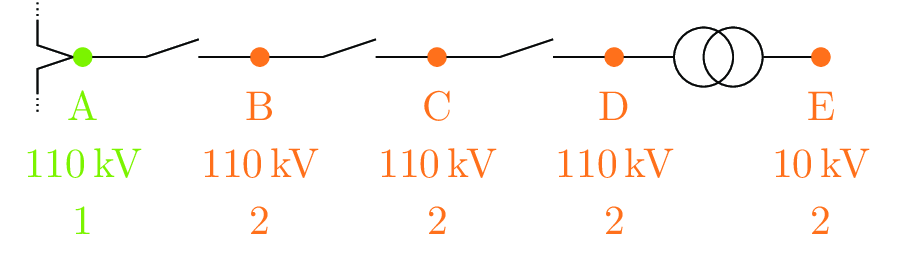
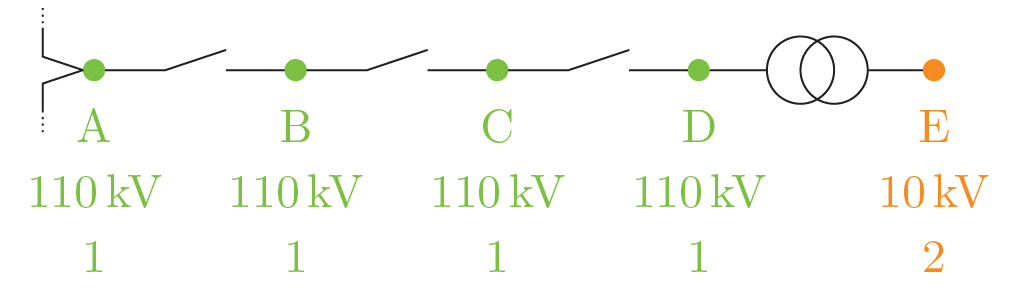
Including reviewer's comments.

diff --git a/docs/readthedocs/_static/figures/transformerWithSwitchGear.tex b/docs/readthedocs/_static/figures/transformerWithSwitchGear.tex
@@ -159,9 +159,9 @@
 	    \begin{tikzpicture}
 	    % === Anschlüsse ===
 	        \node[circle, draw = tuGreen, fill = tuGreen, inner sep = 0, minimum height = 1.5mm] (port_a) at (0,0){};
-	        \node[circle, draw = tuOrange, fill = tuOrange, inner sep = 0, minimum height = 1.5mm] (port_b) at (15mm,0){};
-	        \node[circle, draw = tuOrange, fill = tuOrange, inner sep = 0, minimum height = 1.5mm] (port_c) at (30mm,0){};
-	        \node[circle, draw = tuOrange, fill = tuOrange, inner sep = 0, minimum height = 1.5mm] (port_d) at (45mm,0){};
+	        \node[circle, draw = tuOrange, fill = tuGreen, inner sep = 0, minimum height = 1.5mm] (port_b) at (15mm,0){};
+	        \node[circle, draw = tuOrange, fill = tuGreen, inner sep = 0, minimum height = 1.5mm] (port_c) at (30mm,0){};
+	        \node[circle, draw = tuOrange, fill = tuGreen, inner sep = 0, minimum height = 1.5mm] (port_d) at (45mm,0){};
 	        \node[circle, draw = tuOrange, fill = tuOrange, inner sep = 0, minimum height = 1.5mm] (port_e) at (62.5mm,0){};
 	        
 	        \draw (port_a.west) -- ++(-3mm, -1mm) -- ++(0mm, -2mm) edge[densely dotted] ++(0mm, -1.8mm);
@@ -176,9 +176,9 @@
 	        \draw (port_d.east) -- (winding_a.west) (winding_b.east) -- (port_e.west);
 	        
 	        \node[tuGreen, anchor = north, inner sep = 2mm, text width = 10mm, align = center] at (port_a.south) {A \\ \SI{110}{\kV} \\ 1};
-	        \node[tuOrange, anchor = north, inner sep = 2mm, text width = 10mm, align = center] at (port_b.south) {B \\ \SI{110}{\kV} \\ 2};
-	        \node[tuOrange, anchor = north, inner sep = 2mm, text width = 10mm, align = center] at (port_c.south) {C \\ \SI{110}{\kV} \\ 2};
-	        \node[tuOrange, anchor = north, inner sep = 2mm, text width = 10mm, align = center] at (port_d.south) {D \\ \SI{110}{\kV} \\ 2};
+	        \node[tuOrange, anchor = north, inner sep = 2mm, text width = 10mm, align = center] at (port_b.south) {B \\ \SI{110}{\kV} \\ 1};
+	        \node[tuOrange, anchor = north, inner sep = 2mm, text width = 10mm, align = center] at (port_c.south) {C \\ \SI{110}{\kV} \\ 1};
+	        \node[tuOrange, anchor = north, inner sep = 2mm, text width = 10mm, align = center] at (port_d.south) {D \\ \SI{110}{\kV} \\ 1};
 	        \node[tuOrange, anchor = north, inner sep = 2mm, text width = 10mm, align = center] at (port_e.south) {E \\ \SI{10}{\kV} \\ 2};
 	    \end{tikzpicture}
 \end{document}

diff --git a/docs/readthedocs/models/input/grid/gridcontainer.md b/docs/readthedocs/models/input/grid/gridcontainer.md
@@ -20,6 +20,17 @@ Why predominant?
 As of convention, the `SubGridContainers` hold also reference to the transformers leading to higher sub grids
 and their higher voltage coupling point.
 
+![Sub grid boundary definition for transformers with upstream switchgear](../../../_static/figures/transformerWithSwitchGear.png)
+
+Let's shed a more detailed light on the boundaries of a sub grid as of our definition.
+This especially is important, if the switchgear of the transformer is modeled in detail.
+We defined, that all nodes in upstream direction of the transformer, including those, which are connected by switches *only*
+(therefore are within the switchgear) are counted towards the superior sub grid structure (here "1"), because they belong
+to a different voltage level.
+If a switchgear should be operated by the inferior grid, one can set the operator, that is used in the inferior grid, for
+the switchgear. This can be necessary, if we assume, that the interest to operate on the given switchgear will most likely
+be placed in the inferior grid structure.
+
 A synoptic overview of both classes' attributes is given here:
 
 ## Attributes, Units and Remarks
